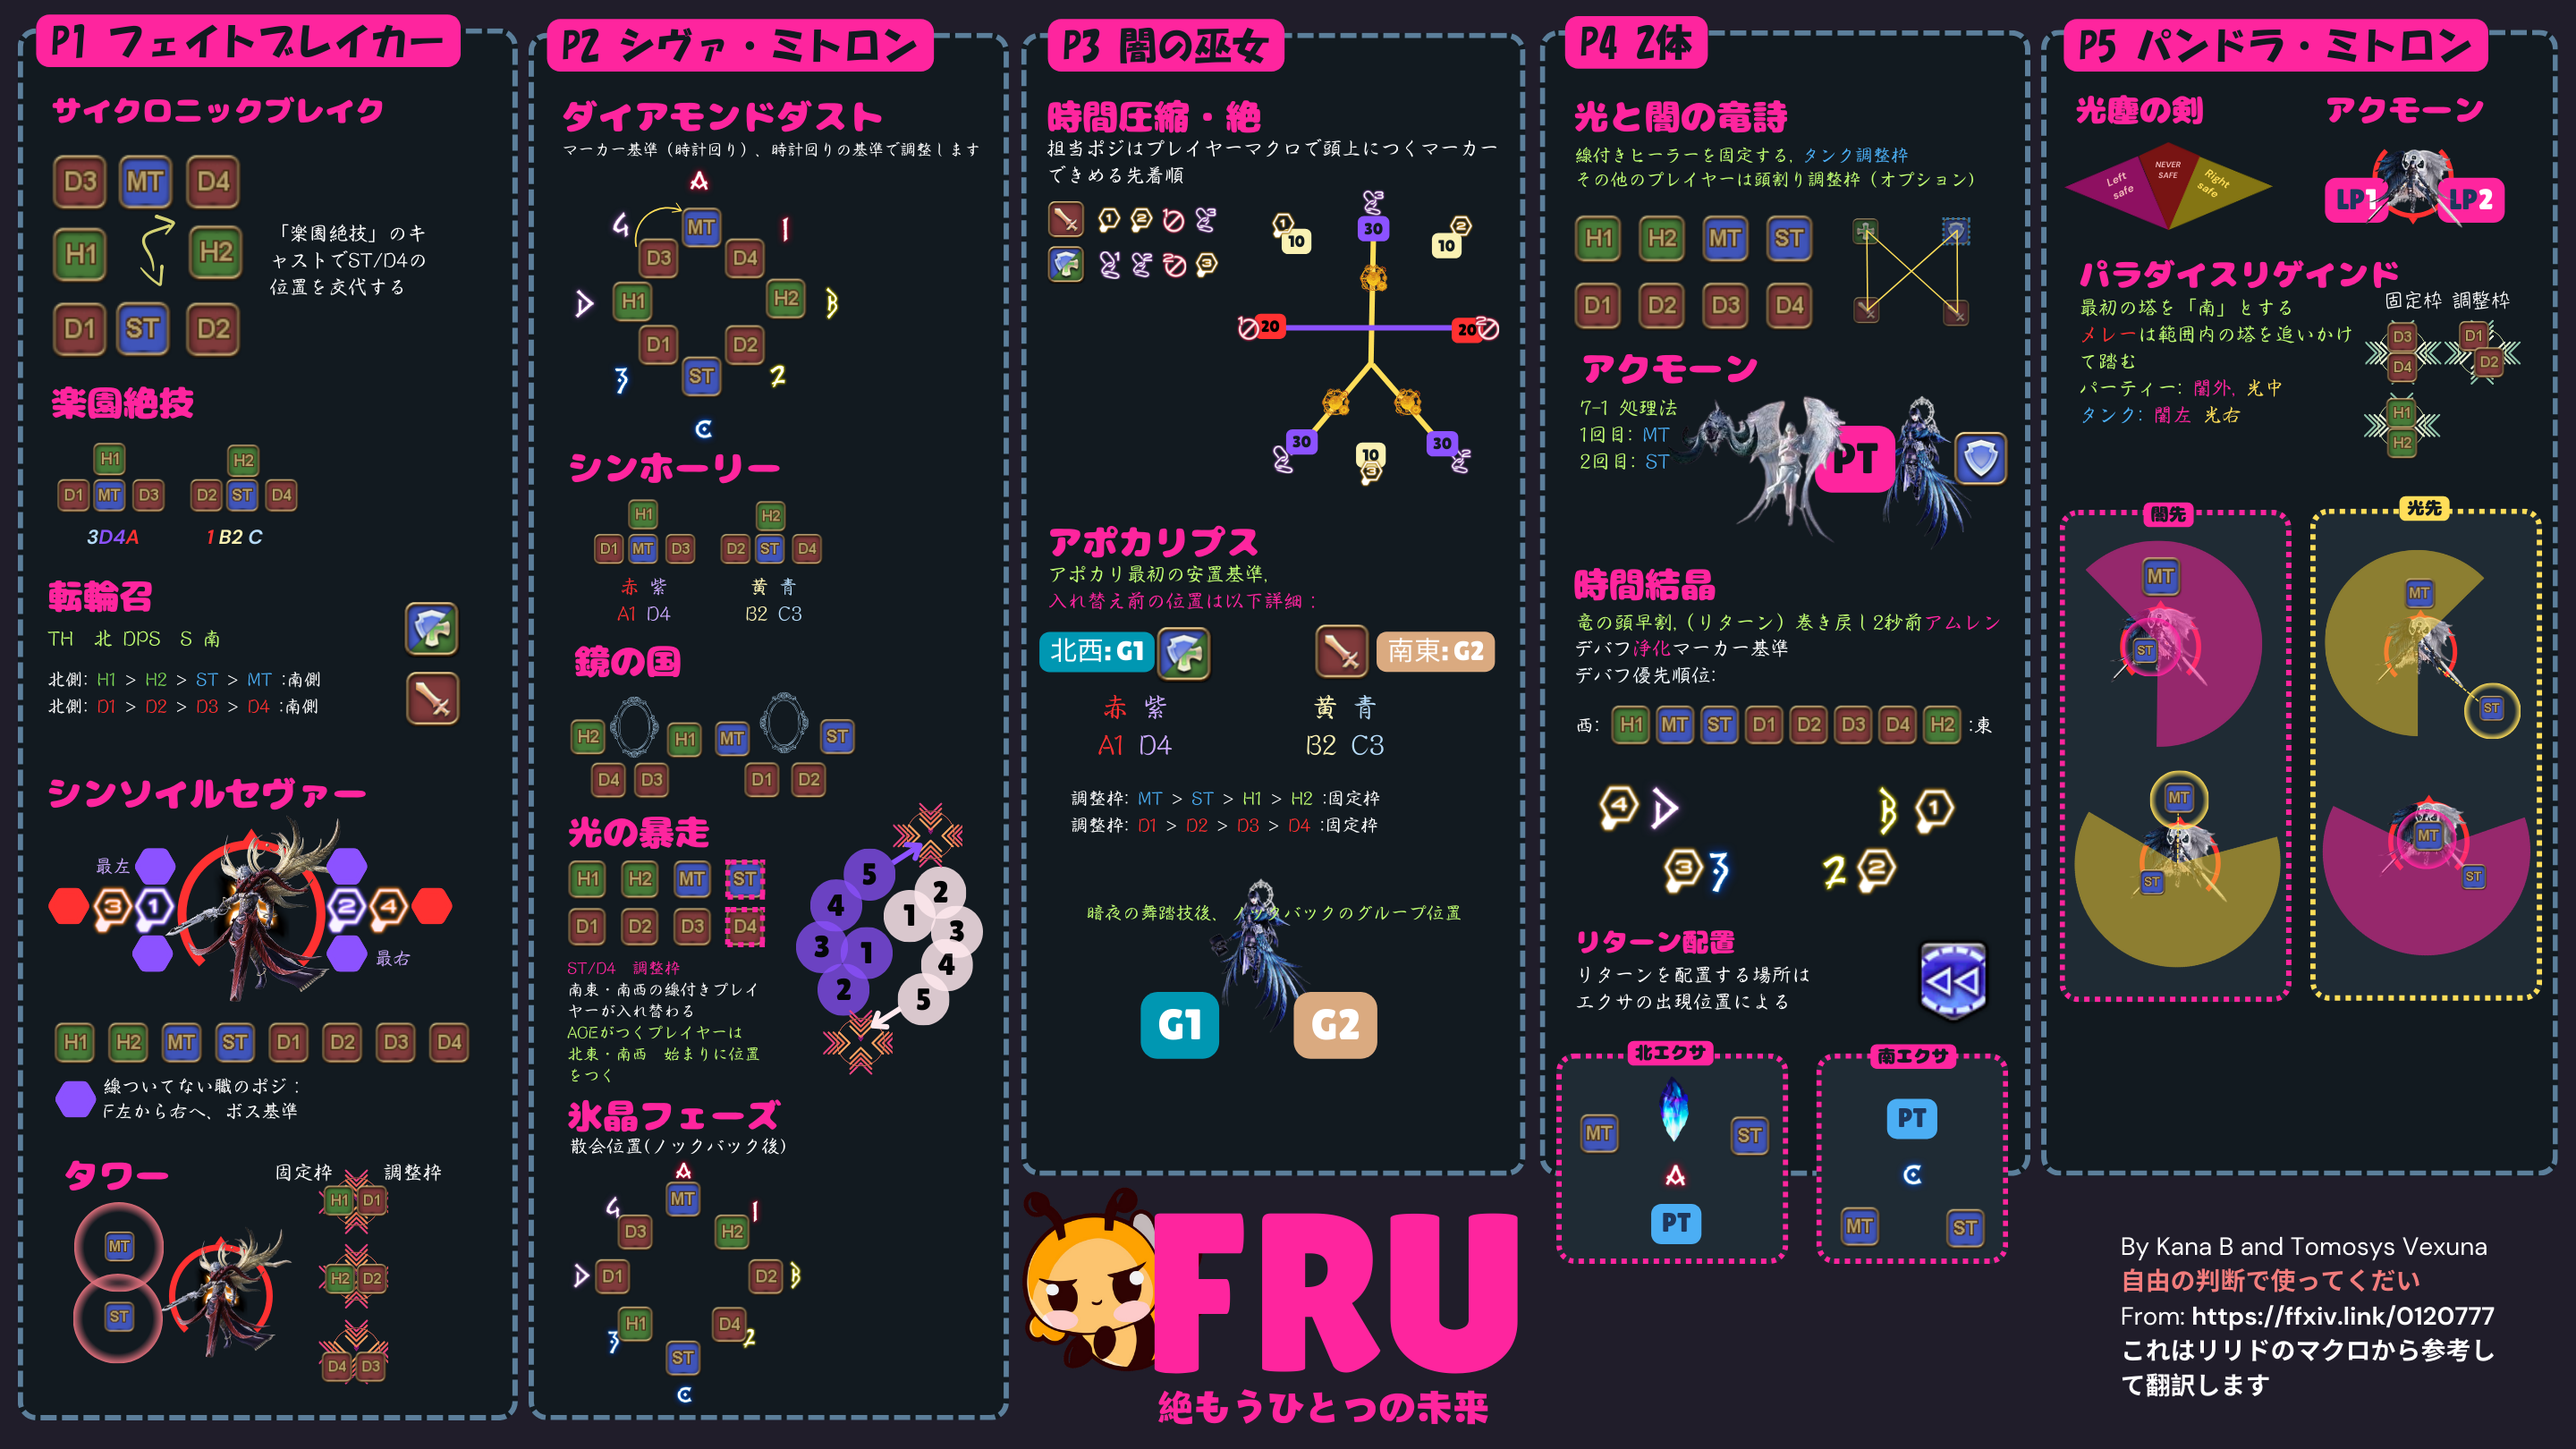
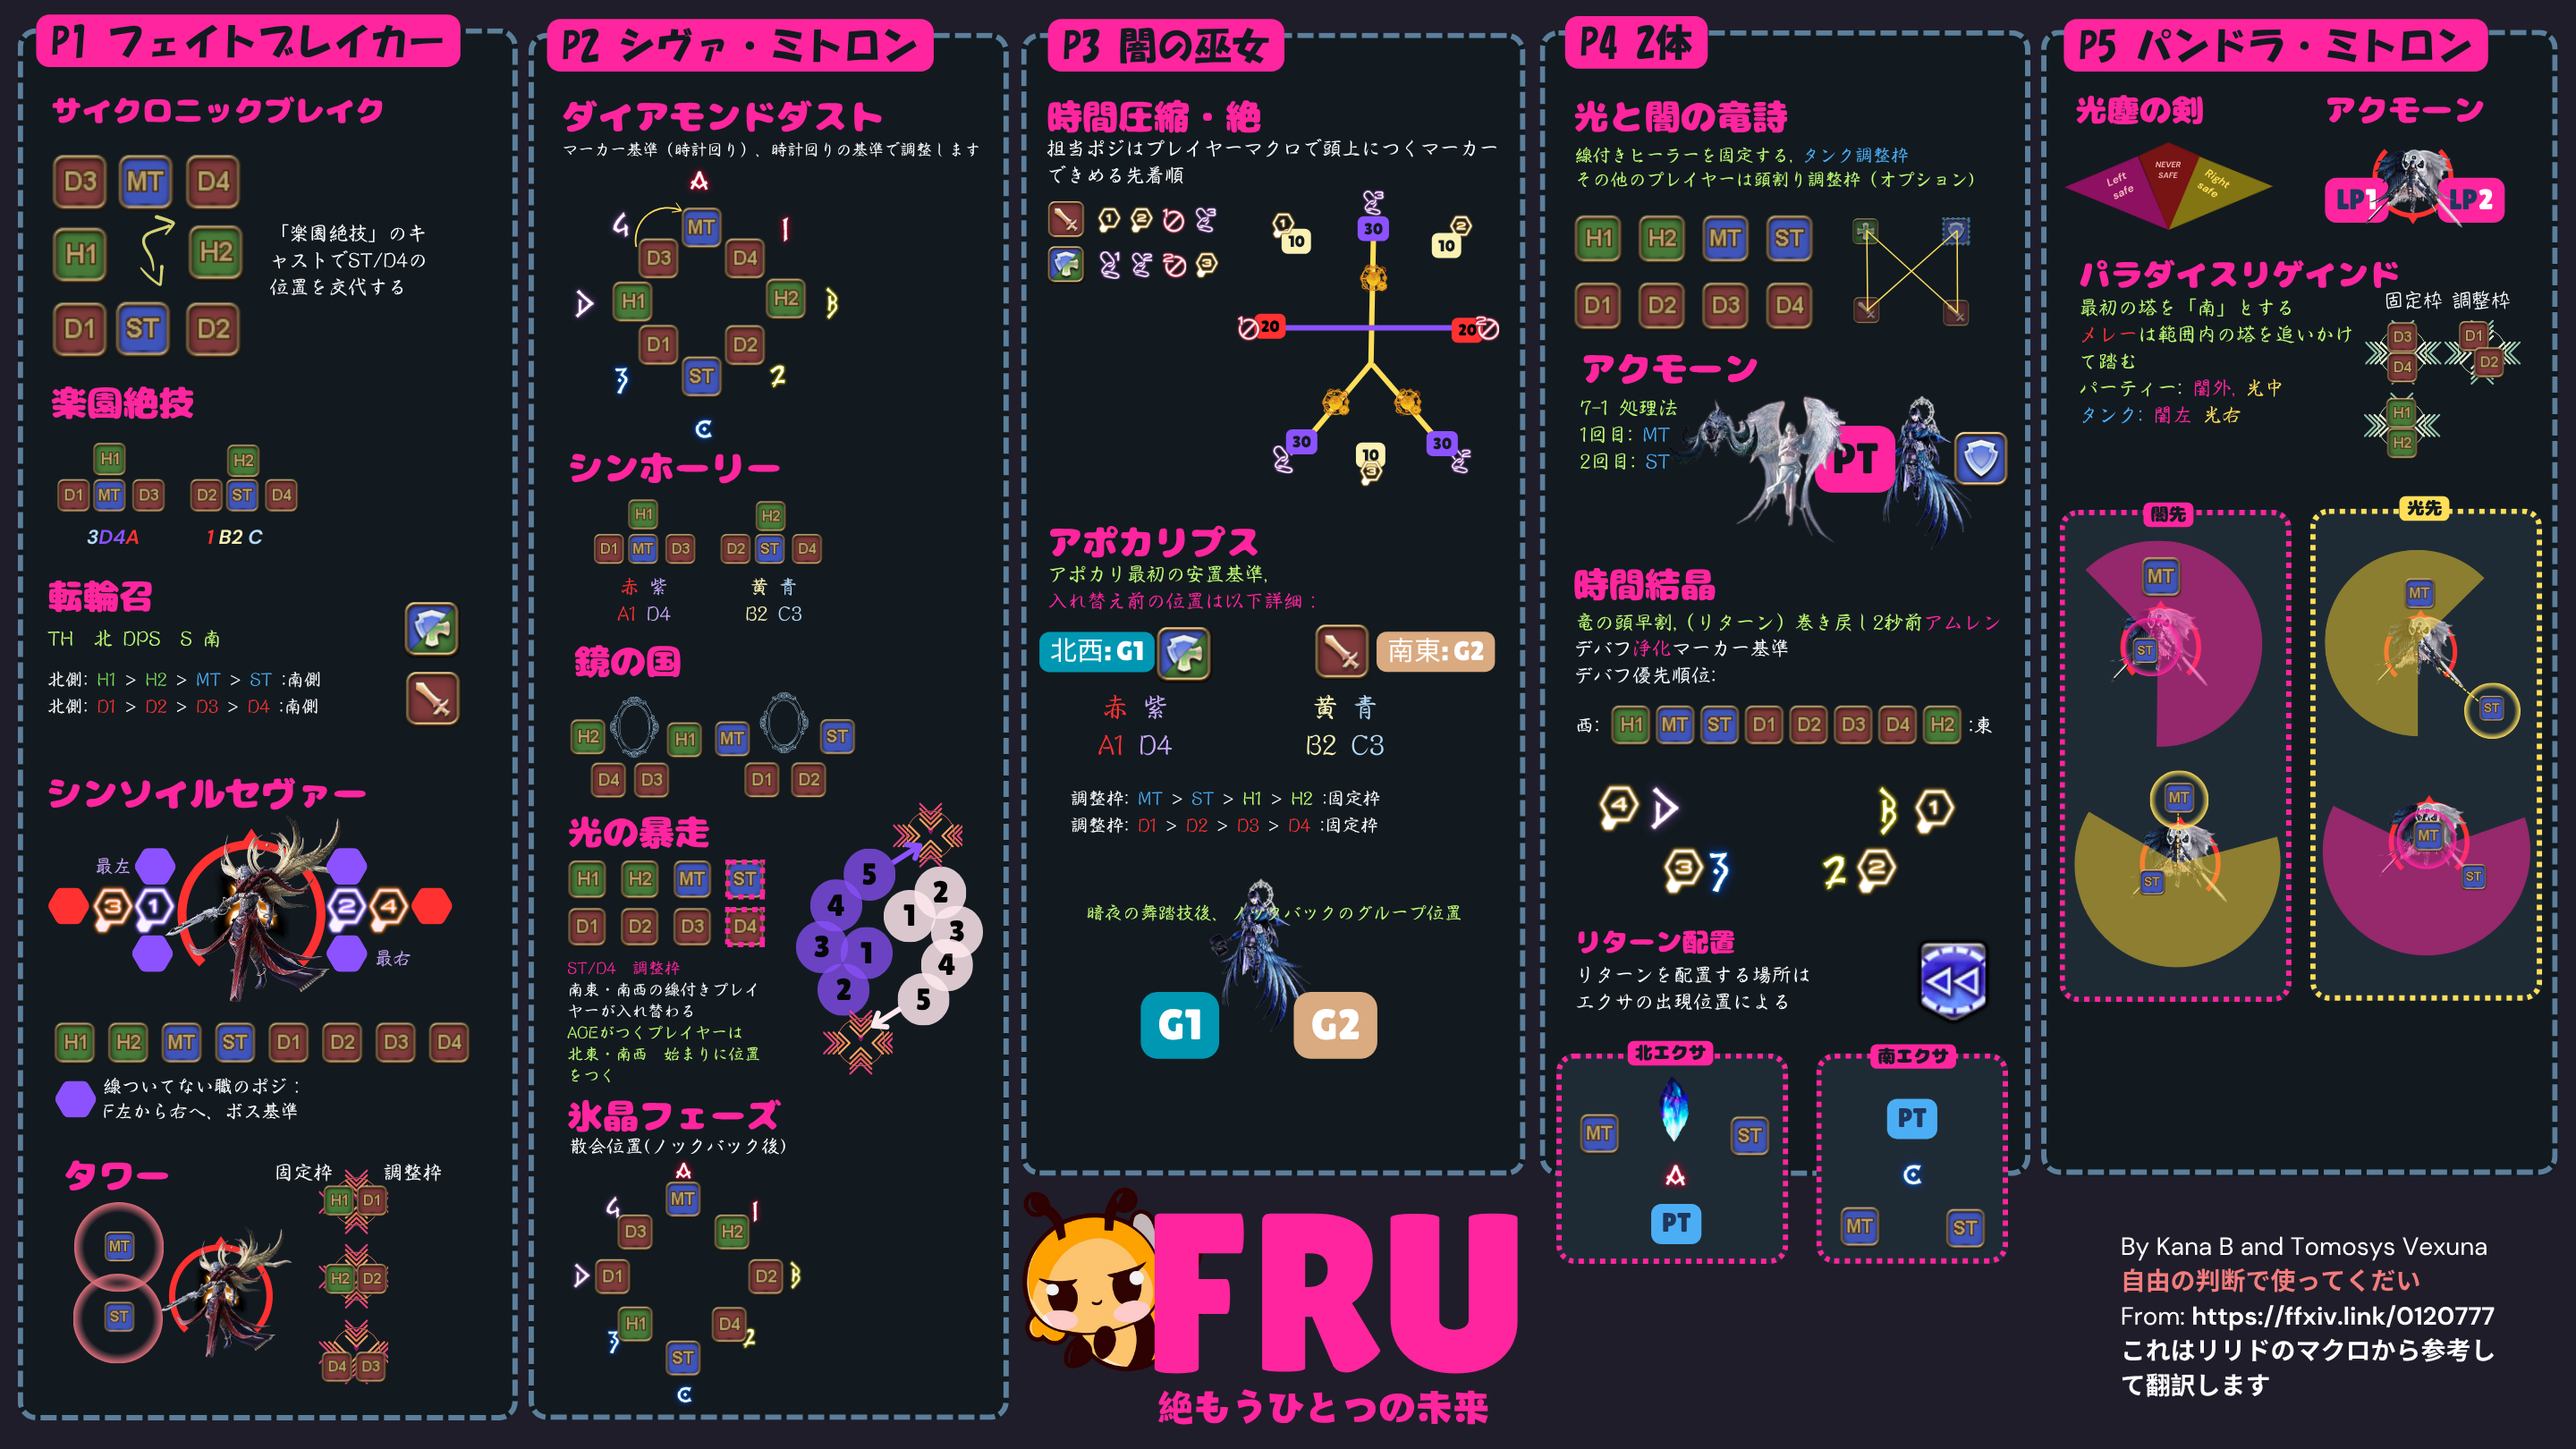
Mana

diff --git a/cheatsheets/fru-mana.html b/cheatsheets/fru-mana.html
@@ -45,8 +45,8 @@
     <div id="sidebar-container"></div>
     <section class="mainContent">
       <div>
-        <h1 class="title"> CAR JP Cheatsheet</h1>
-      <div id="gallery" class="gallery"> <a href="/Assets/Images/Mana.png" data-mediabox="gallery-1" data-title="CAR JP"> <img style="max-width: 90%" src="/Assets/Images/Mana.png" alt="FRU Mana"> </a> </div>
+        <h1 class="title"> FRU Mana Cheatsheet</h1>
+      <div id="gallery" class="gallery"> <a href="/Assets/Images/cheatsheet/FRU_Mana_EN.png" data-mediabox="gallery-1" data-title="FRU Mana"> <img style="max-width: 90%" src="/Assets/Images/cheatsheet/FRU_Mana_EN.png" alt="FRU Mana"> </a> </div>
           
       
       </div>
